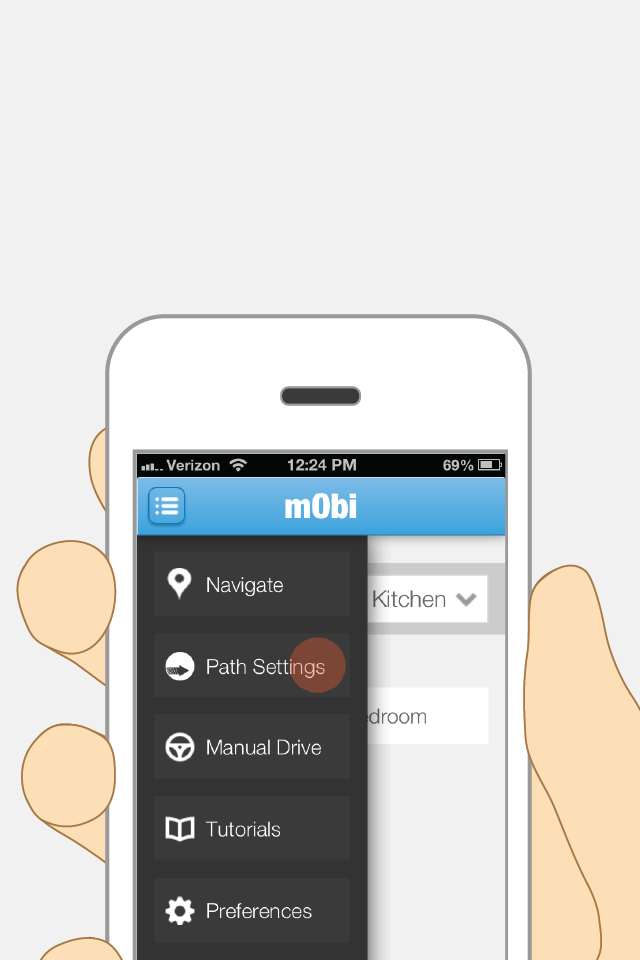
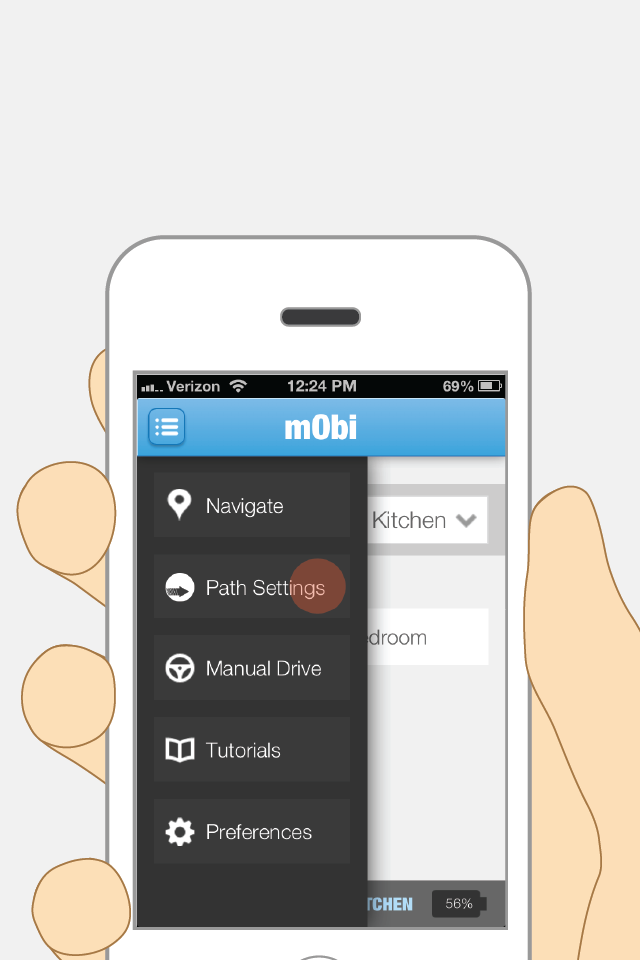
Modified create path tutorial, added push tutorial

diff --git a/css/app.css b/css/app.css
@@ -784,6 +784,22 @@ h1 {
   font-size: 18px;
   margin-top: 160px; }
 
+#content .arrow {
+  display: inline-block;
+  width: 17px;
+  height: 32px;
+  position: absolute;
+  top: 50%;
+}
+#content .arrow.prev {
+  background: url('../img/prev.png') no-repeat;
+  left: 12px;
+}
+#content .arrow.next {
+  background: url('../img/next.png') no-repeat;
+  right: 12px;
+}
+
 /* ------------- MANUAL DRIVE PAGE -------------- */
 
 /*$control-normal: rgba(255, 255, 255, 0.8);
@@ -908,11 +924,14 @@ $wheel-width: $d-pad-width/2;*/
 /* ------------- TUTORIALS -------------- */
 
 #content.tutorial {
+  background: rgba(220, 220, 220, 0.8);
+  height: 70px !important;
+  padding-bottom: 0px;
   z-index: 50;
 }
   #content.tutorial h1, #content.tutorial p {
     width: 78%;
-    margin: 1.5em auto;
+    margin: 1em auto;
   }
   #content.tutorial h1 {
     font-size: 36px;
@@ -920,21 +939,9 @@ $wheel-width: $d-pad-width/2;*/
     margin-top: 1em;
     margin-bottom: 0;
   }
-  #content.tutorial .arrow {
-    display: inline-block;
-    width: 17px;
-    height: 32px;
-    position: absolute;
-    top: 58px;
-  }
-  #content.tutorial .prev {
-    background: url('../img/prev.png') no-repeat;
-    left: 12px;
-  }
-  #content.tutorial .next {
-    background: url('../img/next.png') no-repeat;
-    right: 12px;
-  }
+#content.tutorial.titlePage {
+  height: 380px !important;
+}
 
 #tutorialImg {
   width: 100%;

diff --git a/tutorialPush.html b/tutorialPush.html
@@ -18,13 +18,11 @@
                 <a href="tutorials.html" class="item training">Tutorials</a>
                 <a href="preferences.html" class="item settings">Preferences</a>
             </div>
-            <div id="content" class="tutorial">
-                <p><strong>Step 7.</strong> Put your hand on the back of mObi's table top.</p>
-                <a href="tutorialCreatePathStep6.html" class="arrow prev"></a>
-                <a href="tutorialCreatePathStep8.html" class="arrow next"></a>
-            </div>
-            <div id="tutorialImg">
-                <img src="img/tutorials/createPathStep7.png" />
+            <div id="content" class="tutorial titlePage">
+                <h1>How to push mObi</h1>
+                <p>This tutorial will help you become comfortable with pushing mObi.</p>
+                <p>Before you begin, please place your phone on top of mObi. Keep the tutorial open and at a readable distance. This will allow you to continue the tutorial with your hands free.</p>
+                <a href="tutorialPushStep1.html" class="arrow next"></a>
             </div>
             <div id="statusBar">
                 <div class="location">KITCHEN</div>

diff --git a/tutorialPushStep2.html b/tutorialPushStep2.html
@@ -19,12 +19,12 @@
                 <a href="preferences.html" class="item settings">Preferences</a>
             </div>
             <div id="content" class="tutorial">
-                <p><strong>Step 7.</strong> Put your hand on the back of mObi's table top.</p>
-                <a href="tutorialCreatePathStep6.html" class="arrow prev"></a>
-                <a href="tutorialCreatePathStep8.html" class="arrow next"></a>
+                <p><strong>Step 2.</strong> Gently push mObi forward and walk alongside it.</p>
+                <a href="tutorialPushStep1.html" class="arrow prev"></a>
+                <a href="tutorialPushStep3.html" class="arrow next"></a>
             </div>
             <div id="tutorialImg">
-                <img src="img/tutorials/createPathStep7.png" />
+                <img src="img/tutorials/createPathStep8.png" />
             </div>
             <div id="statusBar">
                 <div class="location">KITCHEN</div>

diff --git a/tutorialPushStep3.html b/tutorialPushStep3.html
@@ -19,12 +19,12 @@
                 <a href="preferences.html" class="item settings">Preferences</a>
             </div>
             <div id="content" class="tutorial">
-                <p><strong>Step 7.</strong> Put your hand on the back of mObi's table top.</p>
-                <a href="tutorialCreatePathStep6.html" class="arrow prev"></a>
-                <a href="tutorialCreatePathStep8.html" class="arrow next"></a>
+                <p><strong>Step 3.</strong> Try pushing mObi in a straight line across the room.</p>
+                <a href="tutorialPushStep2.html" class="arrow prev"></a>
+                <a href="tutorialPushStep4.html" class="arrow next"></a>
             </div>
             <div id="tutorialImg">
-                <img src="img/tutorials/createPathStep7.png" />
+                <img src="img/tutorials/pushStep3.png" />
             </div>
             <div id="statusBar">
                 <div class="location">KITCHEN</div>

diff --git a/tutorialPushStep4.html b/tutorialPushStep4.html
@@ -19,12 +19,11 @@
                 <a href="preferences.html" class="item settings">Preferences</a>
             </div>
             <div id="content" class="tutorial">
-                <p><strong>Step 7.</strong> Put your hand on the back of mObi's table top.</p>
-                <a href="tutorialCreatePathStep6.html" class="arrow prev"></a>
-                <a href="tutorialCreatePathStep8.html" class="arrow next"></a>
+                <p><strong>Step 4.</strong> Now try pushing mObi forward and making a turn.</p>
+                <a href="tutorialPushStep3.html" class="arrow prev"></a>
             </div>
             <div id="tutorialImg">
-                <img src="img/tutorials/createPathStep7.png" />
+                <img src="img/tutorials/pushStep4.png" />
             </div>
             <div id="statusBar">
                 <div class="location">KITCHEN</div>

diff --git a/tutorialPushStep1.html b/tutorialPushStep1.html
@@ -19,9 +19,9 @@
                 <a href="preferences.html" class="item settings">Preferences</a>
             </div>
             <div id="content" class="tutorial">
-                <p><strong>Step 7.</strong> Put your hand on the back of mObi's table top.</p>
-                <a href="tutorialCreatePathStep6.html" class="arrow prev"></a>
-                <a href="tutorialCreatePathStep8.html" class="arrow next"></a>
+                <p><strong>Step 1.</strong> Put your hand on the back of mObi's table top.</p>
+                <a href="tutorialPush.html" class="arrow prev"></a>
+                <a href="tutorialPushStep2.html" class="arrow next"></a>
             </div>
             <div id="tutorialImg">
                 <img src="img/tutorials/createPathStep7.png" />

diff --git a/tutorialCreatePath.html b/tutorialCreatePath.html
@@ -18,7 +18,7 @@
                 <a href="tutorials.html" class="item training">Tutorials</a>
                 <a href="preferences.html" class="item settings">Preferences</a>
             </div>
-            <div id="content" class="tutorial">
+            <div id="content" class="tutorial titlePage">
                 <h1>How to create a path</h1>
                 <p>mObi gets around the house by remembering the path it takes between two rooms. This tutorial will teach you how to create a path between two rooms.</p>
                 <p>Before you begin, make sure mObi is in the room where you want the path to start.</p>

diff --git a/tutorialCreatePathStep9.html b/tutorialCreatePathStep9.html
@@ -26,11 +26,11 @@
             <div id="tutorialImg">
                 <img src="img/tutorials/createPathStep9.png" />
             </div>
-            <!-- <div id="statusBar">
+            <div id="statusBar">
                 <div class="location">KITCHEN</div>
                 <div class="battery">56%</div>
                 <div class="status idle"></div>
-            </div> -->
+            </div>
         </div>
         <script type="text/javascript" src="./js/jquery.min.js"></script>
         <script type="text/javascript" src="./js/app.js"></script>
